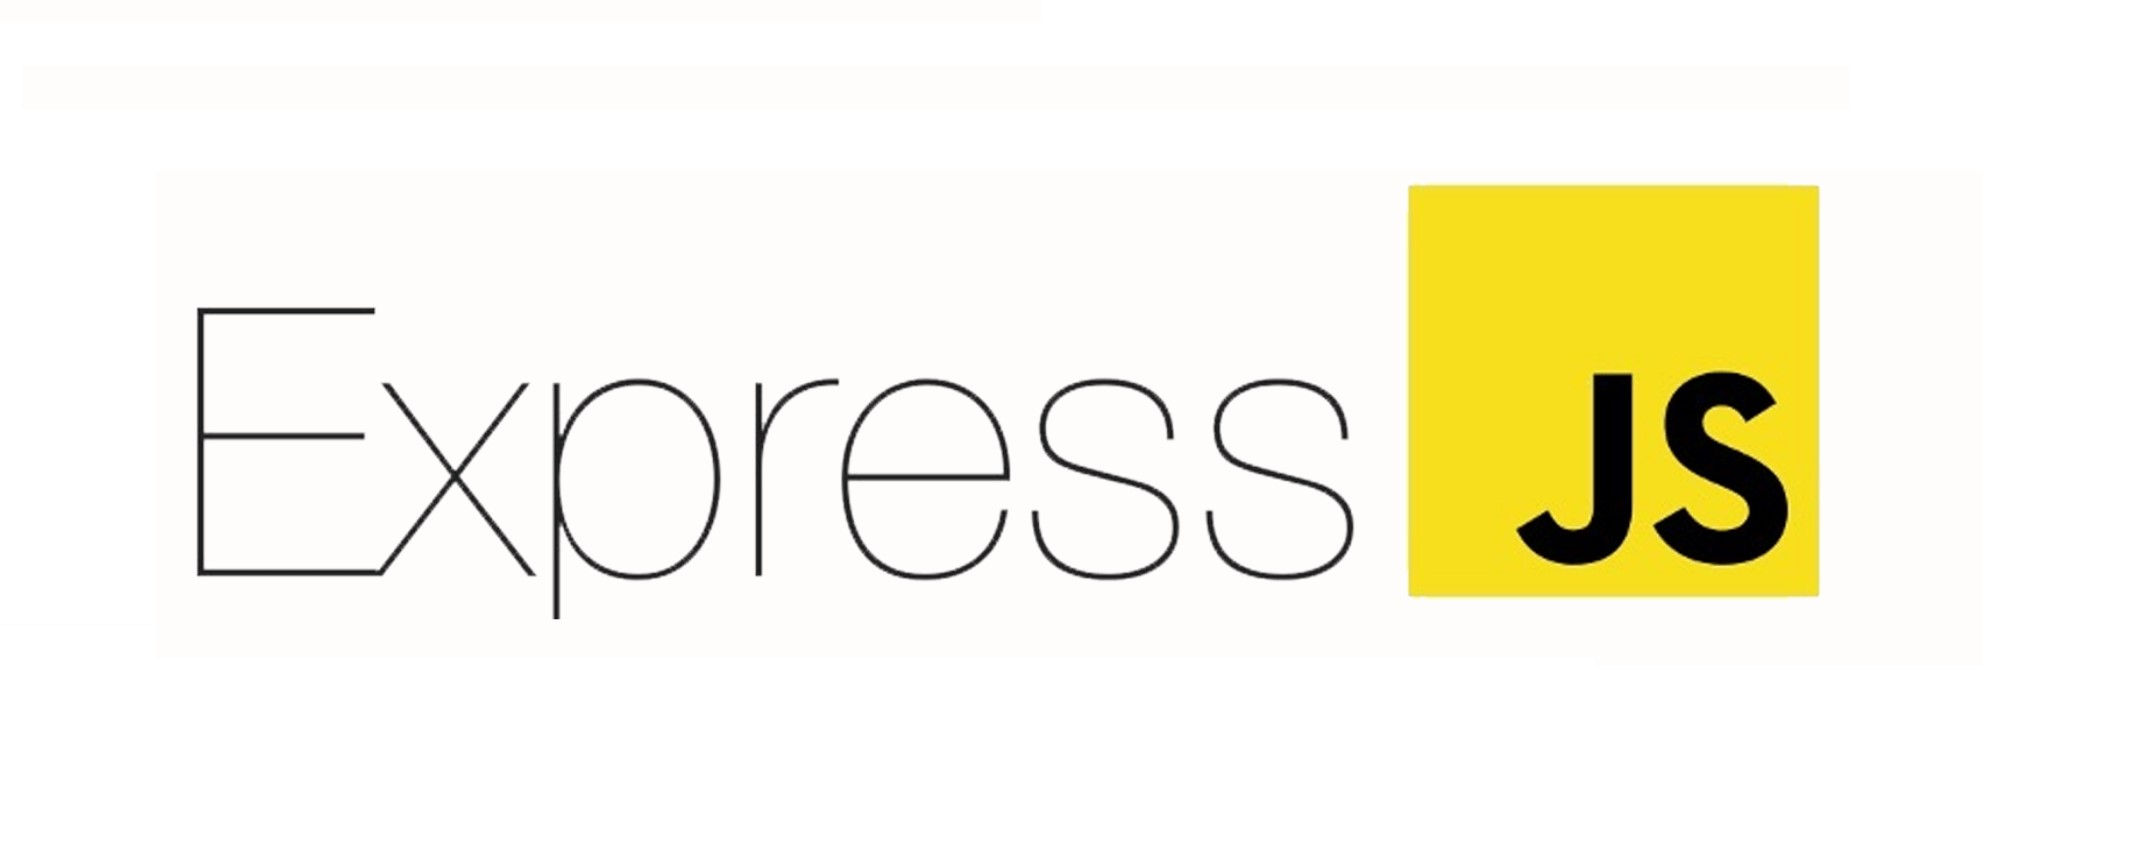
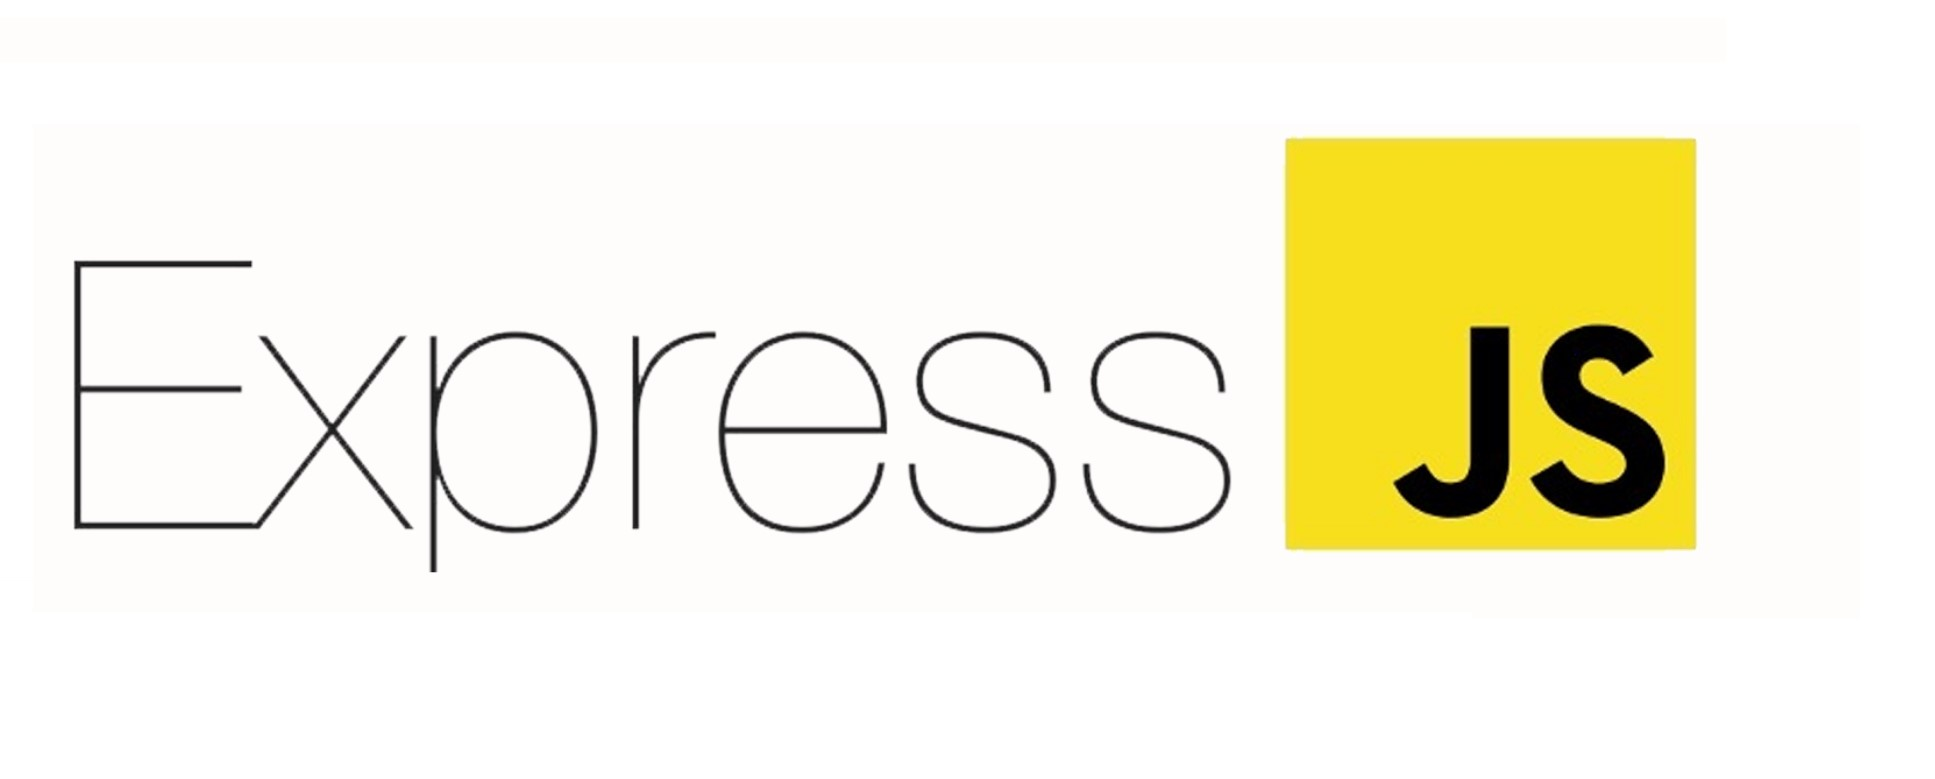
Cropped the node and express images to look more centered, and finished the projects page to make the projects look more evenly spaced, but still not fully complete

Changed region(s): [[0.031, 0.154, 0.8992, 0.7394]]

diff --git a/src/components/css/style.css b/src/components/css/style.css
@@ -169,6 +169,7 @@ html {
 
   .projects {
     padding-top: 4%;
+    margin-left: 5%;
   }
 
   .p1 {
@@ -192,7 +193,7 @@ html {
   }
 
   .p2 {
-    background-image: url("../images/node.png");
+    background-image: url("../images/node.jpg");
     width: 84%;
     background-size: cover;
     background-repeat: no-repeat;
@@ -231,7 +232,7 @@ html {
   
   .p4 {
     background-image: url("../images/express.jpg");
-    width: 84%;
+    width: 85%;
     background-size: cover;
     background-repeat: no-repeat;
     height: 210px;
